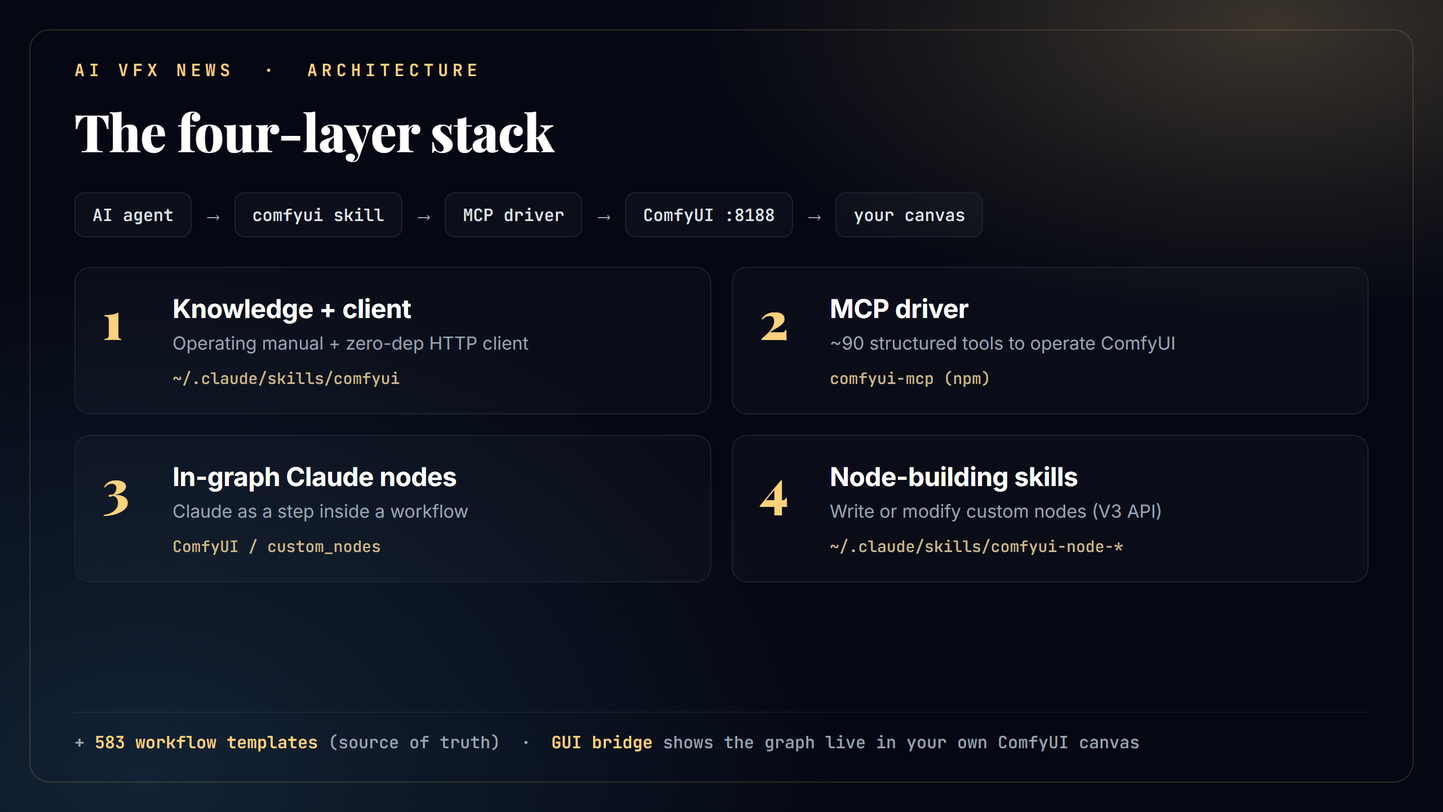
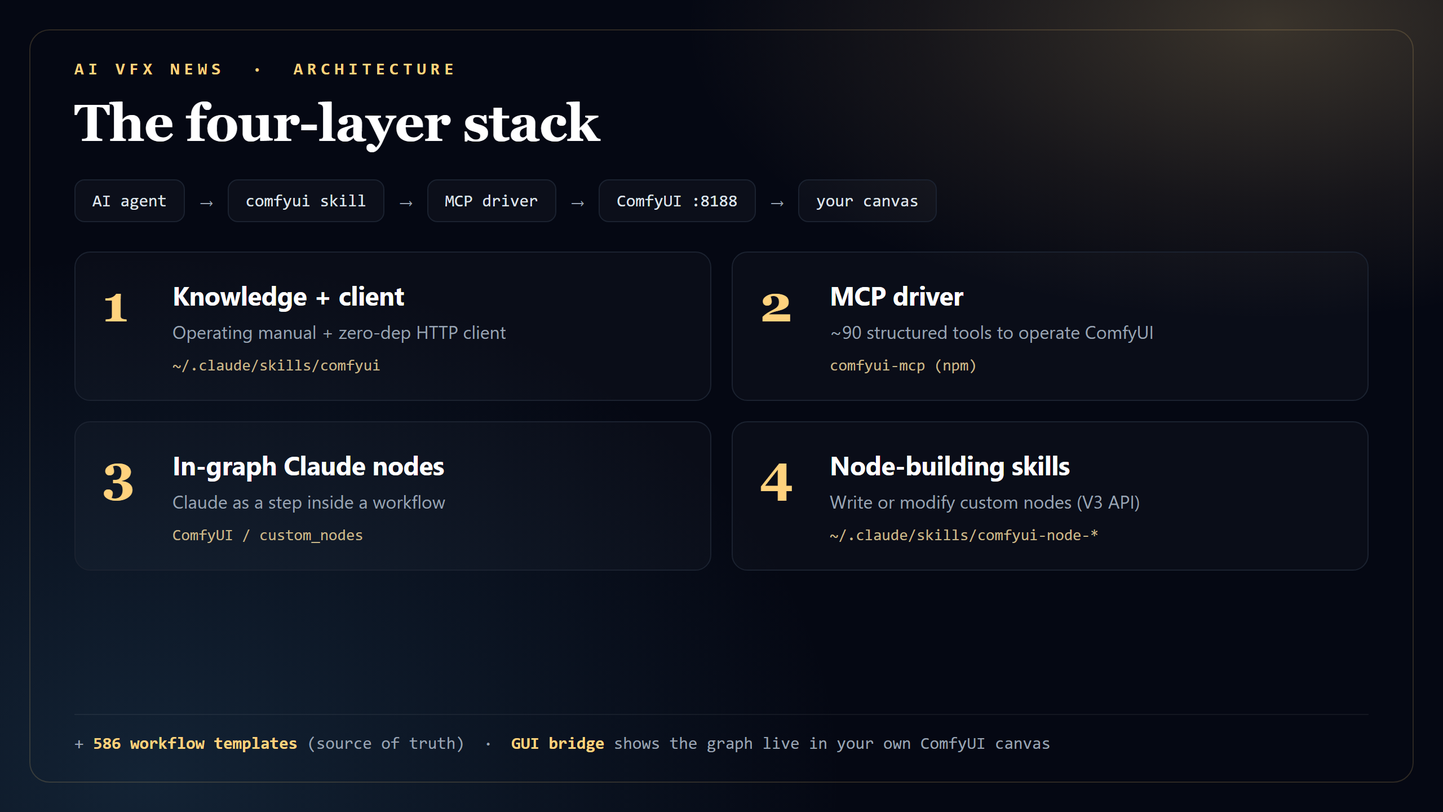
Teach the local MiniMax H3 open weights (the half the kit was missing)
RESPONSIBLE FOR: the kit already documented MiniMax H3 through the hosted
MinimaxHailuo03* API nodes, but the open-weights release is an entirely separate
graph and was absent. Taught from primary sources only, not from the community
writeup that prompted it.

Confirmed from comfy_extras/nodes_minimax_h3.py and the three shipped templates:
MiniMaxH3ImageToVideo covers T2V, I2V and first/last frame in one node (leave
first_frame unconnected and it IS text-to-video), MiniMaxH3ReferenceToVideo adds
audio_vae and the reference slots. Full wiring recorded: CLIPLoader type
"minimax", video fp16 + audio fp32 VAEs, res_multistep + simple at 25 steps,
dual VAEDecode / VAEDecodeAudio into CreateVideo at 24 fps. Also the frame grid
the node calls "17k+5": length must be congruent to 5 mod 17, trained range
~124-362 frames, which the formula reproduces exactly as 5 to 15 seconds.

Prompt format taken from MiniMax's own writing guides rather than paraphrase:
the three named fields, the fixed instruction line for image modes, speaker IDs,
and dialogue inside <d>[Language] verbatim</d>. That last one explains the
widespread "the speech is gibberish" reports.

Licence flagged hard and quoted from the LICENSE file: rights are limited to an
Applicable Territory that EXCLUDES the EU, the UK, South Korea and the USA, and
section IV.4 extends that to the outputs. Over 20M USD revenue needs written
authorisation; products must display "Powered by MiniMax H3".
[…]

diff --git a/claude-code/skills/comfyui/MODELS.md b/claude-code/skills/comfyui/MODELS.md
@@ -805,6 +805,119 @@ Qwen-Image-Edit, OmniGen (above), Seedream Edit, and Nano Banana edit, which are
   - **Cost:** the price badge computes **duration x $0.1859** for t2v and flf2v (so a 5s clip is about $0.93), and the reference node adds per-reference terms on top. Priced from the node's own `PriceBadge` expression, not from a docs page.
 - **Source:** minimax.io/platform/document/video_generation ; node template `minimax.md` ; `comfy_api_nodes/nodes_minimax.py` on master + Comfy-Org/ComfyUI PR 15167 (v0.29.2) ; templates `api_minimax_h3_{t2v,flf2v,r2v}.json`.
 
+#### MiniMax H3 LOCAL (open weights) - a second, entirely separate path from the API nodes above
+
+**READ THE LICENCE BEFORE YOU RUN IT. This one has teeth.** The MiniMax H3 Community License Agreement (2026-08-02,
+`MiniMaxAI/MiniMax-H3/LICENSE`) grants rights only inside the "Applicable Territory", defined as worldwide
+**excluding the European Union, the United Kingdom, the Republic of Korea and the United States of America**.
+Section IV.4 is explicit that this covers the outputs too: "You may not use, reproduce, modify, distribute, or
+display the MiniMax H3 Works **or any of their Outputs or results** outside the Applicable Territory." Anyone in
+those four territories has to contact MiniMax for a separate licence rather than just downloading the weights.
+Beyond territory: over **20 million USD** yearly revenue needs prior written authorisation (api@minimax.io), any
+product built on it must display **"Powered by MiniMax H3"**, and redistribution must carry the copyright notice.
+Open weights, NOT open source. Quoted from the licence file itself, not from a summary.
+
+**What is actually open.** Only **H3-Base** ships, and it generates at **768p**. The official system has three
+modules, and two are hosted-only: **H3-Context-IR** (a multi-stage prompt/context refiner that MiniMax calls
+"critical to the quality of the final output") and **H3-Regenerate-2K** (the 2K upscale pass). So the local model
+is the base engine without the official prompt brain and without the 2K stage. In their place: any local LLM to
+expand prompts into the format below, and an ordinary upscaler. Expect the hosted web result to look more
+finished than a local run of the same idea; that is the missing IR, not your settings.
+
+**Build the graph (confirmed from `comfy_extras/nodes_minimax_h3.py` and the shipped templates).** Two core nodes:
+- **`MiniMaxH3ImageToVideo`** covers T2V, I2V, first-frame, last-frame and first-and-last-frame in one node.
+  Inputs `clip` (CLIP), `vae` (VAE), `first_frame` (IMAGE, optional), `last_frame` (IMAGE, optional),
+  `prompt` (STRING), `width` / `height` / `length` (INT). Outputs `positive` (CONDITIONING) + `LATENT`.
+  **Connect no image and it IS text-to-video** - that is exactly how the `video_minimax_h3_t2v` template works.
+- **`MiniMaxH3ReferenceToVideo`** for reference-to-video. Same inputs plus `audio_vae` (VAE),
+  `ref_images.ref_image_0..2` (IMAGE), `ref_videos.ref_video_0` (IMAGE), `ref_video_audios.ref_video_audio_0`
+  (AUDIO), `ref_audios.ref_audio_0` (AUDIO). Same two outputs.
+- Wiring, identical in both templates: `UNETLoader` (the fl2va or ref2va checkpoint) -> `BasicGuider` with the
+  node's `positive`; `CLIPLoader` with type **`minimax`** -> `clip`; two `VAELoader`s -> `vae` and `audio_vae`;
+  `KSamplerSelect` **`res_multistep`** + `BasicScheduler` **`simple`, 25 steps** -> `SamplerCustomAdvanced` ->
+  **`VAEDecode`** (video, through the video VAE) and **`VAEDecodeAudio`** (through the audio VAE) ->
+  `CreateVideo` at **24 fps** -> `SaveVideo`.
+- **The frame grid, straight from the node schema.** `length` is `default 124, min 5, max 3600, step 17`, and the
+  tooltip names the rule: frame count at 24 fps **snapped up to the model's "17k+5 grid"**, i.e. it must leave
+  **remainder 5 when divided by 17** (124 = ~5 s, 73 = ~3 s). The templates compute it with
+  `max(5, round(seconds * 24)) + (5 - (max(5, round(seconds * 24)) % 17)) % 17`; keep that `ComfyMathExpression`
+  rather than typing a length by hand. **The trained range is ~124 to 362 frames** (roughly 5 to 15 s) per the
+  same tooltip; the widget accepts up to 3600 but the model was not trained there, which is the honest ceiling
+  behind the "people ran 25 s clips" reports.
+- Template defaults: **1344 x 768**, 16:9, which matches the model's ~1 megapixel training target. Push past it
+  and time and VRAM climb while detail does not; the official route to 2K is the Regenerate pass that is not open.
+
+**Files (exact names and sizes, read from the `Comfy-Org/MiniMax-H3` repo tree).** Two task families, four
+precisions each, all under `diffusion_models/`:
+`minimax_h3_{fl2va,ref2va}_bf16.safetensors` **66.3 GB** · `..._int8_convrot.safetensors` **34.0 GB** ·
+`..._pruned_int8_convrot.safetensors` **21.0 GB** · `..._pruned_fp8_scaled.safetensors` **21.0 GB**.
+Use **fl2va** for T2V / I2V / first-last-frame and **ref2va** for reference-to-video. Plus
+`text_encoders/qwen3vl_32b_minimax_h3_nvfp4_awq.safetensors`, `vae/minimax_h3_video_vae_fp16.safetensors` and
+`vae/minimax_h3_audio_vae_fp32.safetensors`. Note the **pruned fp8 variant**, same 21 GB as the pruned int8 and
+worth trying if int8 misbehaves on your card. These are Comfy-Org's own conversions; the community has since
+added GGUF / INT4 / NVFP4 builds under other authors (Abiray, Merserk, DeepBeepMeep, Gluttony10 and more).
+
+**Prompt format: H3-Base eats the IR output, so write in that shape.** From the official
+`VIDEO_PROMPT_WRITING_GUIDE_base_en.md`, the prompt is an optional instruction line, a blank line, then **three
+named fields**:
+```
+integrated_multimodal_description: [Shot 1] ... [Shot 2] At 00:04.500, ...
+overall_soundscape: ...
+non_diegetic_music: ...
+```
+`integrated_multimodal_description` carries visuals, action, shots, speakers, dialogue and diegetic sound along
+the timeline; `overall_soundscape` sums up ambience and physical-action sound; `non_diegetic_music` is score the
+characters cannot hear. For I2V the first line is fixed: `For the target video, at 0.00 seconds into the target
+video, <Picture 1> (from [Shot 1]) is fully referenced.` First-and-last-frame uses the alignment sentence naming
+both pictures and the second mark each lands on, to two decimals.
+- **Dialogue has a syntax, and this is why "the speech is gibberish" reports happen.** Speakers get stable IDs
+  `(S1)`, `(S2)`, joint `(S1,S2)`. The spoken words go **inside `<d>` tags with a language tag**, everything about
+  who says it and how stays outside, and the text is copied verbatim:
+  `The young woman with a quiet, breathy voice (S1) says: <d>[English] I get off at the next station.</d>`
+  Voiceover needs the exact phrase `says in an off-screen voiceover` plus a statement that the lips stay closed.
+  Use `<scenetrans>` when a line crosses a cut and `<cutoff>` when speech is truncated by the end.
+- **On-screen text** goes in double quotes, verbatim, untranslated.
+- **Camera** is motion type plus amplitude plus speed, from a fixed vocabulary: `Zoom In/Out`, `Push In/Pull Out`,
+  `Pan Left/Right`, `Truck Left/Right`, `Tilt Up/Down`, `Pedestal Up/Down`, `Arc Shot`, `Tracking Shot`. Medium
+  amplitude and normal speed are the defaults and are simply left out.
+- **Reference labels (R2V)**, from `VIDEO_PROMPT_WRITING_GUIDE_ref_en.md`: `<Subject N>` is the key one because it
+  binds sources together, e.g. "`<Subject 1>` is the woman whose appearance comes from `<Picture 1>` and whose
+  walking motion comes from `<Video 1>`." `<Picture N>` is a frame or composition anchor, `<Video N>` an editing
+  or temporal source, `<Audio N>` a copied signal. The guide's full structure is `subject_definitions`, `summary`,
+  `retention_analysis` (what is preserved, transferred or reused) and `detailed_description`.
+
+**Reference limits and the sizing switch.** The node's slots are **Autogrow**, so the shipped template showing
+three image sockets is just what that graph instantiated, not the ceiling. From the node schema: `ref_images`
+**max 9**, `ref_videos` **max 3**, `ref_video_audios` **max 3**, `ref_audios` **max 3** - the same envelope as the
+official card, which adds that clips run 2 to 15 s each with 15 s total, at most **12 files** across all types,
+and that **audio can never be the only reference** (it must accompany an image or video). `ref_video_audio_N` is
+specifically the soundtrack of the same-numbered reference video; `ref_audio_N` is standalone audio.
+- **`ref_image_size` is the setting that will surprise you on cost.** `match` (default) scales each reference
+  down to the generation's pixel area; `max` uses the reference pipeline's 2048 px short edge for the best
+  identity fidelity. The node's own tooltip warns why that is not free: **reference tokens ride through every
+  sampling step, so `max` can be several times slower**. Reach for `max` when a face has to hold, stay on
+  `match` otherwise. References are only ever downscaled, never upscaled.
+
+**Speed and hardware (field reports, not measured here).** Generation is slow, and the reason is in the official
+card: H3 supports sparse attention natively but **the open release ships inference with full attention only**,
+with a sparse implementation promised later. Community VRAM ladder as reported by users: 8 GB is a stunt, 12 GB
+does 480p short T2V with aggressive offload, 16 GB is a working minimum for 480p 5 to 10 s, **24 GB (3090/4090)
+is the realistic home tier for T2V / I2V and short R2V**, 32 GB works comfortably near the native megapixel, and
+48 GB is where heavy reference-to-video with long video references stops thrashing. On Windows, ComfyUI has been
+reported to use only part of the card (15 to 17 GB of a 24 GB board) while pushing the rest into system RAM, with
+Linux behaving better. Treat the whole ladder as community reports; the numbers were not verified here.
+- **Duration:** the node itself states the trained range as ~124 to 362 frames, about 5 to 15 s. Nothing blocks a
+  longer `length` and people have posted 25 s clips, but that is past training; expect drift and cost, and treat
+  15 s as where the evidence stops.
+- **Content behaviour:** the safety guardrails described on the model card are part of the **hosted** pipeline
+  (automated moderation of submitted material and enhanced prompts). The open weights carry no such filter, and
+  anatomical fidelity holds up in the image and reference paths. The licence's acceptable-use terms still apply
+  to whatever you generate; MiniMax claims no rights over outputs but places responsibility on you.
+
+- **Source (local path):** `MiniMaxAI/MiniMax-H3` model card, its `LICENSE`, and `docs/VIDEO_PROMPT_WRITING_GUIDE_{base,ref}_en.md` ;
+  `Comfy-Org/MiniMax-H3` repo tree for file names and sizes ; `comfy_extras/nodes_minimax_h3.py` ; templates
+  `video_minimax_h3_{t2v,i2v,r2v}.json`.
+
 ### PixVerse
 - **Prompt style:** `[Character] [Action] [Scene] with [Visual Style], [Cinematography], and [Mood]`; state camera work explicitly and chain it.
 - **Structure:** character/object -> scene -> cinematography (position, movement, angle) -> style/grade -> mood -> negative prompt.

diff --git a/shared/comfyui/MODELS.md b/shared/comfyui/MODELS.md
@@ -805,6 +805,119 @@ Qwen-Image-Edit, OmniGen (above), Seedream Edit, and Nano Banana edit, which are
   - **Cost:** the price badge computes **duration x $0.1859** for t2v and flf2v (so a 5s clip is about $0.93), and the reference node adds per-reference terms on top. Priced from the node's own `PriceBadge` expression, not from a docs page.
 - **Source:** minimax.io/platform/document/video_generation ; node template `minimax.md` ; `comfy_api_nodes/nodes_minimax.py` on master + Comfy-Org/ComfyUI PR 15167 (v0.29.2) ; templates `api_minimax_h3_{t2v,flf2v,r2v}.json`.
 
+#### MiniMax H3 LOCAL (open weights) - a second, entirely separate path from the API nodes above
+
+**READ THE LICENCE BEFORE YOU RUN IT. This one has teeth.** The MiniMax H3 Community License Agreement (2026-08-02,
+`MiniMaxAI/MiniMax-H3/LICENSE`) grants rights only inside the "Applicable Territory", defined as worldwide
+**excluding the European Union, the United Kingdom, the Republic of Korea and the United States of America**.
+Section IV.4 is explicit that this covers the outputs too: "You may not use, reproduce, modify, distribute, or
+display the MiniMax H3 Works **or any of their Outputs or results** outside the Applicable Territory." Anyone in
+those four territories has to contact MiniMax for a separate licence rather than just downloading the weights.
+Beyond territory: over **20 million USD** yearly revenue needs prior written authorisation (api@minimax.io), any
+product built on it must display **"Powered by MiniMax H3"**, and redistribution must carry the copyright notice.
+Open weights, NOT open source. Quoted from the licence file itself, not from a summary.
+
+**What is actually open.** Only **H3-Base** ships, and it generates at **768p**. The official system has three
+modules, and two are hosted-only: **H3-Context-IR** (a multi-stage prompt/context refiner that MiniMax calls
+"critical to the quality of the final output") and **H3-Regenerate-2K** (the 2K upscale pass). So the local model
+is the base engine without the official prompt brain and without the 2K stage. In their place: any local LLM to
+expand prompts into the format below, and an ordinary upscaler. Expect the hosted web result to look more
+finished than a local run of the same idea; that is the missing IR, not your settings.
+
+**Build the graph (confirmed from `comfy_extras/nodes_minimax_h3.py` and the shipped templates).** Two core nodes:
+- **`MiniMaxH3ImageToVideo`** covers T2V, I2V, first-frame, last-frame and first-and-last-frame in one node.
+  Inputs `clip` (CLIP), `vae` (VAE), `first_frame` (IMAGE, optional), `last_frame` (IMAGE, optional),
+  `prompt` (STRING), `width` / `height` / `length` (INT). Outputs `positive` (CONDITIONING) + `LATENT`.
+  **Connect no image and it IS text-to-video** - that is exactly how the `video_minimax_h3_t2v` template works.
+- **`MiniMaxH3ReferenceToVideo`** for reference-to-video. Same inputs plus `audio_vae` (VAE),
+  `ref_images.ref_image_0..2` (IMAGE), `ref_videos.ref_video_0` (IMAGE), `ref_video_audios.ref_video_audio_0`
+  (AUDIO), `ref_audios.ref_audio_0` (AUDIO). Same two outputs.
+- Wiring, identical in both templates: `UNETLoader` (the fl2va or ref2va checkpoint) -> `BasicGuider` with the
+  node's `positive`; `CLIPLoader` with type **`minimax`** -> `clip`; two `VAELoader`s -> `vae` and `audio_vae`;
+  `KSamplerSelect` **`res_multistep`** + `BasicScheduler` **`simple`, 25 steps** -> `SamplerCustomAdvanced` ->
+  **`VAEDecode`** (video, through the video VAE) and **`VAEDecodeAudio`** (through the audio VAE) ->
+  `CreateVideo` at **24 fps** -> `SaveVideo`.
+- **The frame grid, straight from the node schema.** `length` is `default 124, min 5, max 3600, step 17`, and the
+  tooltip names the rule: frame count at 24 fps **snapped up to the model's "17k+5 grid"**, i.e. it must leave
+  **remainder 5 when divided by 17** (124 = ~5 s, 73 = ~3 s). The templates compute it with
+  `max(5, round(seconds * 24)) + (5 - (max(5, round(seconds * 24)) % 17)) % 17`; keep that `ComfyMathExpression`
+  rather than typing a length by hand. **The trained range is ~124 to 362 frames** (roughly 5 to 15 s) per the
+  same tooltip; the widget accepts up to 3600 but the model was not trained there, which is the honest ceiling
+  behind the "people ran 25 s clips" reports.
+- Template defaults: **1344 x 768**, 16:9, which matches the model's ~1 megapixel training target. Push past it
+  and time and VRAM climb while detail does not; the official route to 2K is the Regenerate pass that is not open.
+
+**Files (exact names and sizes, read from the `Comfy-Org/MiniMax-H3` repo tree).** Two task families, four
+precisions each, all under `diffusion_models/`:
+`minimax_h3_{fl2va,ref2va}_bf16.safetensors` **66.3 GB** · `..._int8_convrot.safetensors` **34.0 GB** ·
+`..._pruned_int8_convrot.safetensors` **21.0 GB** · `..._pruned_fp8_scaled.safetensors` **21.0 GB**.
+Use **fl2va** for T2V / I2V / first-last-frame and **ref2va** for reference-to-video. Plus
+`text_encoders/qwen3vl_32b_minimax_h3_nvfp4_awq.safetensors`, `vae/minimax_h3_video_vae_fp16.safetensors` and
+`vae/minimax_h3_audio_vae_fp32.safetensors`. Note the **pruned fp8 variant**, same 21 GB as the pruned int8 and
+worth trying if int8 misbehaves on your card. These are Comfy-Org's own conversions; the community has since
+added GGUF / INT4 / NVFP4 builds under other authors (Abiray, Merserk, DeepBeepMeep, Gluttony10 and more).
+
+**Prompt format: H3-Base eats the IR output, so write in that shape.** From the official
+`VIDEO_PROMPT_WRITING_GUIDE_base_en.md`, the prompt is an optional instruction line, a blank line, then **three
+named fields**:
+```
+integrated_multimodal_description: [Shot 1] ... [Shot 2] At 00:04.500, ...
+overall_soundscape: ...
+non_diegetic_music: ...
+```
+`integrated_multimodal_description` carries visuals, action, shots, speakers, dialogue and diegetic sound along
+the timeline; `overall_soundscape` sums up ambience and physical-action sound; `non_diegetic_music` is score the
+characters cannot hear. For I2V the first line is fixed: `For the target video, at 0.00 seconds into the target
+video, <Picture 1> (from [Shot 1]) is fully referenced.` First-and-last-frame uses the alignment sentence naming
+both pictures and the second mark each lands on, to two decimals.
+- **Dialogue has a syntax, and this is why "the speech is gibberish" reports happen.** Speakers get stable IDs
+  `(S1)`, `(S2)`, joint `(S1,S2)`. The spoken words go **inside `<d>` tags with a language tag**, everything about
+  who says it and how stays outside, and the text is copied verbatim:
+  `The young woman with a quiet, breathy voice (S1) says: <d>[English] I get off at the next station.</d>`
+  Voiceover needs the exact phrase `says in an off-screen voiceover` plus a statement that the lips stay closed.
+  Use `<scenetrans>` when a line crosses a cut and `<cutoff>` when speech is truncated by the end.
+- **On-screen text** goes in double quotes, verbatim, untranslated.
+- **Camera** is motion type plus amplitude plus speed, from a fixed vocabulary: `Zoom In/Out`, `Push In/Pull Out`,
+  `Pan Left/Right`, `Truck Left/Right`, `Tilt Up/Down`, `Pedestal Up/Down`, `Arc Shot`, `Tracking Shot`. Medium
+  amplitude and normal speed are the defaults and are simply left out.
+- **Reference labels (R2V)**, from `VIDEO_PROMPT_WRITING_GUIDE_ref_en.md`: `<Subject N>` is the key one because it
+  binds sources together, e.g. "`<Subject 1>` is the woman whose appearance comes from `<Picture 1>` and whose
+  walking motion comes from `<Video 1>`." `<Picture N>` is a frame or composition anchor, `<Video N>` an editing
+  or temporal source, `<Audio N>` a copied signal. The guide's full structure is `subject_definitions`, `summary`,
+  `retention_analysis` (what is preserved, transferred or reused) and `detailed_description`.
+
+**Reference limits and the sizing switch.** The node's slots are **Autogrow**, so the shipped template showing
+three image sockets is just what that graph instantiated, not the ceiling. From the node schema: `ref_images`
+**max 9**, `ref_videos` **max 3**, `ref_video_audios` **max 3**, `ref_audios` **max 3** - the same envelope as the
+official card, which adds that clips run 2 to 15 s each with 15 s total, at most **12 files** across all types,
+and that **audio can never be the only reference** (it must accompany an image or video). `ref_video_audio_N` is
+specifically the soundtrack of the same-numbered reference video; `ref_audio_N` is standalone audio.
+- **`ref_image_size` is the setting that will surprise you on cost.** `match` (default) scales each reference
+  down to the generation's pixel area; `max` uses the reference pipeline's 2048 px short edge for the best
+  identity fidelity. The node's own tooltip warns why that is not free: **reference tokens ride through every
+  sampling step, so `max` can be several times slower**. Reach for `max` when a face has to hold, stay on
+  `match` otherwise. References are only ever downscaled, never upscaled.
+
+**Speed and hardware (field reports, not measured here).** Generation is slow, and the reason is in the official
+card: H3 supports sparse attention natively but **the open release ships inference with full attention only**,
+with a sparse implementation promised later. Community VRAM ladder as reported by users: 8 GB is a stunt, 12 GB
+does 480p short T2V with aggressive offload, 16 GB is a working minimum for 480p 5 to 10 s, **24 GB (3090/4090)
+is the realistic home tier for T2V / I2V and short R2V**, 32 GB works comfortably near the native megapixel, and
+48 GB is where heavy reference-to-video with long video references stops thrashing. On Windows, ComfyUI has been
+reported to use only part of the card (15 to 17 GB of a 24 GB board) while pushing the rest into system RAM, with
+Linux behaving better. Treat the whole ladder as community reports; the numbers were not verified here.
+- **Duration:** the node itself states the trained range as ~124 to 362 frames, about 5 to 15 s. Nothing blocks a
+  longer `length` and people have posted 25 s clips, but that is past training; expect drift and cost, and treat
+  15 s as where the evidence stops.
+- **Content behaviour:** the safety guardrails described on the model card are part of the **hosted** pipeline
+  (automated moderation of submitted material and enhanced prompts). The open weights carry no such filter, and
+  anatomical fidelity holds up in the image and reference paths. The licence's acceptable-use terms still apply
+  to whatever you generate; MiniMax claims no rights over outputs but places responsibility on you.
+
+- **Source (local path):** `MiniMaxAI/MiniMax-H3` model card, its `LICENSE`, and `docs/VIDEO_PROMPT_WRITING_GUIDE_{base,ref}_en.md` ;
+  `Comfy-Org/MiniMax-H3` repo tree for file names and sizes ; `comfy_extras/nodes_minimax_h3.py` ; templates
+  `video_minimax_h3_{t2v,i2v,r2v}.json`.
+
 ### PixVerse
 - **Prompt style:** `[Character] [Action] [Scene] with [Visual Style], [Cinematography], and [Mood]`; state camera work explicitly and chain it.
 - **Structure:** character/object -> scene -> cinematography (position, movement, angle) -> style/grade -> mood -> negative prompt.

diff --git a/CHANGELOG.md b/CHANGELOG.md
@@ -14,6 +14,44 @@ vx.y.z`), which can become a GitHub Release.
 
 ## [Unreleased]
 
+### Added
+- **MiniMax H3 local open weights, the half the kit was missing.** The MiniMax entry already covered the hosted
+  `MinimaxHailuo03*` API nodes; the open-weights release is a completely separate graph and it now has its own
+  block. Buildable from the two core nodes confirmed in `comfy_extras/nodes_minimax_h3.py`:
+  **`MiniMaxH3ImageToVideo`** (one node covering T2V, I2V and first/last frame, with `first_frame` / `last_frame`
+  simply left unconnected for text-to-video) and **`MiniMaxH3ReferenceToVideo`** (adds `audio_vae` plus the
+  `ref_images` / `ref_videos` / `ref_video_audios` / `ref_audios` slots), each returning `positive` CONDITIONING
+  and `LATENT`. Full wiring documented: `CLIPLoader` type **`minimax`**, two VAEs (video fp16 + audio fp32),
+  `res_multistep` + `simple` at 25 steps, dual `VAEDecode` / `VAEDecodeAudio` into `CreateVideo` at 24 fps.
+  Includes the **frame-count rule the templates encode and nobody writes down: the length must leave remainder 5
+  modulo 17** (124 frames for 5 s, 73 for 3 s), so a hand-set length can land off-grid.
+- **The official prompt format for H3, which is not the usual prose.** From MiniMax's own
+  `VIDEO_PROMPT_WRITING_GUIDE_{base,ref}_en.md`: three named fields (`integrated_multimodal_description`,
+  `overall_soundscape`, `non_diegetic_music`), the fixed instruction line for image modes, speaker IDs `(S1)`,
+  and dialogue wrapped in `<d>[Language] verbatim words</d>` with delivery outside the tag. That last detail
+  explains the widely reported "the speech comes out as gibberish": without `<d>` the model is never told the
+  exact words. Also `<scenetrans>` / `<cutoff>` for lines crossing a cut, quoted on-screen text, the fixed camera
+  vocabulary, and the `<Subject N>` / `<Picture N>` / `<Video N>` / `<Audio N>` reference labels for R2V.
+- **What is open and what is not:** only **H3-Base** ships and it generates at **768p**. The `H3-Context-IR`
+  prompt/context refiner (which MiniMax calls critical to output quality) and the `H3-Regenerate-2K` upscale pass
+  are hosted-only, so a local run is the base engine without the official prompt brain. Documented alongside the
+  exact file names and sizes read from the `Comfy-Org/MiniMax-H3` tree (bf16 66.3 GB, int8-convrot 34.0 GB,
+  pruned int8-convrot and pruned **fp8-scaled** 21.0 GB each, per task family), the community VRAM ladder marked
+  as unverified field reports, and the reason it is slow (the open release ships **full attention only**; sparse
+  attention is promised later).
+- **A hard licence flag, quoted from the licence file.** The MiniMax H3 Community License Agreement (2026-08-02)
+  limits all rights to an "Applicable Territory" that **excludes the European Union, the United Kingdom, the
+  Republic of Korea and the United States of America**, and section IV.4 extends that to the **outputs** as well.
+  Over 20 million USD yearly revenue needs prior written authorisation, products must display "Powered by
+  MiniMax H3", and redistribution must carry the copyright notice. Open weights, not open source.
+
+### Changed
+- **Template count 583 -> 586** (the three local `video_minimax_h3_{t2v,i2v,r2v}` templates, which landed
+  2026-08-02, after the last weekly cut). Synced across README, MODEL_INDEX, SKILL.md and all four re-rendered
+  banners; category counts recomputed from the manifest (Image 157, Video 152). The MODEL_INDEX MiniMax row now
+  reads **API + local open weights** instead of API only. Recipe and model counts are unchanged: this extends the
+  existing MiniMax family entry rather than adding a new one.
+
 ## [2.7.0] - 2026-08-02
 
 ### Added

diff --git a/README.md b/README.md
@@ -53,7 +53,7 @@ guide to building your own custom nodes.
   fits (fp8 / offload / multi-GPU / quant) and refuses a download that won't fit, before wasting the bandwidth.
 - **18 enhancement and utility tools:** upscale / restore (Real-ESRGAN, SUPIR, SeedVR2), frame interpolation
   (FILM, RIFE), segmentation / depth / pose (SAM3, BiRefNet, Depth Anything), plus restoration chains.
-- **583-template library** (and **94 official Subgraph Blueprints**, reusable subgraph bricks) as the source of truth, plus **fetch any shared workflow by hash** and a **model
+- **586-template library** (and **94 official Subgraph Blueprints**, reusable subgraph bricks) as the source of truth, plus **fetch any shared workflow by hash** and a **model
   shootout** (run a prompt through many models small, pick the winner, then scale up).
 - **Assembles new workflows from parts:** decomposes a task into stages, mixes templates and blueprint subgraphs,
   and wires the nodes correctly (output-to-input by type, with converters where needed), validated against
@@ -106,12 +106,12 @@ See [docs/LAYERS.md](docs/LAYERS.md) for each layer, and [docs/AGENTS.md](docs/A
 ## The template library is the source of truth
 
 The kit clones the official [Comfy-Org/workflow_templates](https://github.com/Comfy-Org/workflow_templates) and
-builds a compact lookup index so the agent can match any request to the right template. 583 templates (plus **94 official Subgraph Blueprints**, reusable subgraph bricks) span every
+builds a compact lookup index so the agent can match any request to the right template. 586 templates (plus **94 official Subgraph Blueprints**, reusable subgraph bricks) span every
 task, image, video, 3D, audio, utilities:
 
 <div align="center">
 
-<img src="docs/assets/templates_by_category.png" width="880" alt="Workflow templates by category: 157 image, 149 video, 103 use cases, 69 utility, 33 3D, 30 audio, 18 getting started, 17 LLM, 7 node basics">
+<img src="docs/assets/templates_by_category.png" width="880" alt="Workflow templates by category: 157 image, 152 video, 103 use cases, 69 utility, 33 3D, 30 audio, 18 getting started, 17 LLM, 7 node basics">
 
 </div>
 

diff --git a/claude-code/skills/comfyui/MODEL_INDEX.md b/claude-code/skills/comfyui/MODEL_INDEX.md
@@ -1,6 +1,6 @@
 # Model index: every model in the library and what the kit has for it
 
-The template library names **157 distinct models** across 583 templates (plus 94 official Subgraph Blueprints, reusable subgraph bricks). This index shows, for each, what the kit
+The template library names **157 distinct models** across 586 templates (plus 94 official Subgraph Blueprints, reusable subgraph bricks). This index shows, for each, what the kit
 provides: a full prompt recipe in [`MODELS.md`](../shared/comfyui/MODELS.md), an enhancement/utility note, or
 template-only coverage (runnable via a template, no dedicated recipe yet).
 
@@ -13,7 +13,7 @@ template-only coverage (runnable via a template, no dedicated recipe yet).
 **Totals:** ✅ 75 recipe families (covering ~128 model-name variants) · 🔧 18 utility tools · 📋 a few obscure
 template-only · plus text encoders / inference providers that are not generative models.
 
-**Updated: 2026-08-01.** Every ✅ entry has a current prompting recipe in
+**Updated: 2026-08-03.** Every ✅ entry has a current prompting recipe in
 [`MODELS.md`](../shared/comfyui/MODELS.md); every 🔧 entry has a when-to-use + settings note.
 
 ---
@@ -79,7 +79,7 @@ template-only · plus text encoders / inference providers that are not generativ
 | Seedance | Seedance 1.0 Pro, 1.5 Pro, 2.0 (4K) | API |
 | Luma | Luma Ray, UNI-1 | API |
 | Runway | Runway Gen-4 / 4.5 | API |
-| MiniMax | MiniMax / Hailuo, MiniMax H3 | API |
+| MiniMax | MiniMax / Hailuo (API), MiniMax H3 (API + local open weights) | API / local |
 | PixVerse | PixVerse | API |
 | Vidu | Vidu Q1 / Q2 / Q3 | API |
 | Pika | Pika 2.2 / 2.5 | API |

diff --git a/docs/MODEL_INDEX.md b/docs/MODEL_INDEX.md
@@ -1,6 +1,6 @@
 # Model index: every model in the library and what the kit has for it
 
-The template library names **157 distinct models** across 583 templates (plus 94 official Subgraph Blueprints, reusable subgraph bricks). This index shows, for each, what the kit
+The template library names **157 distinct models** across 586 templates (plus 94 official Subgraph Blueprints, reusable subgraph bricks). This index shows, for each, what the kit
 provides: a full prompt recipe in [`MODELS.md`](../shared/comfyui/MODELS.md), an enhancement/utility note, or
 template-only coverage (runnable via a template, no dedicated recipe yet).
 
@@ -13,7 +13,7 @@ template-only coverage (runnable via a template, no dedicated recipe yet).
 **Totals:** ✅ 75 recipe families (covering ~128 model-name variants) · 🔧 18 utility tools · 📋 a few obscure
 template-only · plus text encoders / inference providers that are not generative models.
 
-**Updated: 2026-08-01.** Every ✅ entry has a current prompting recipe in
+**Updated: 2026-08-03.** Every ✅ entry has a current prompting recipe in
 [`MODELS.md`](../shared/comfyui/MODELS.md); every 🔧 entry has a when-to-use + settings note.
 
 ---
@@ -79,7 +79,7 @@ template-only · plus text encoders / inference providers that are not generativ
 | Seedance | Seedance 1.0 Pro, 1.5 Pro, 2.0 (4K) | API |
 | Luma | Luma Ray, UNI-1 | API |
 | Runway | Runway Gen-4 / 4.5 | API |
-| MiniMax | MiniMax / Hailuo, MiniMax H3 | API |
+| MiniMax | MiniMax / Hailuo (API), MiniMax H3 (API + local open weights) | API / local |
 | PixVerse | PixVerse | API |
 | Vidu | Vidu Q1 / Q2 / Q3 | API |
 | Pika | Pika 2.2 / 2.5 | API |

diff --git a/claude-code/skills/comfyui/SKILL.md b/claude-code/skills/comfyui/SKILL.md
@@ -212,7 +212,7 @@ Ideogram, Nano Banana Pro/2, Seedream 4.x/5 Lite/5 Pro, Recraft, GPT-Image, Grok
 Chroma, Krea (incl. the Turbo image-style-reference LoRA on core nodes), ERNIE-Image, Mage-Flow (Microsoft 4B,
 native-resolution, MIT); (image edit) FLUX Kontext,
 Qwen-Image-Edit, FireRed, LongCat, ChronoEdit, JoyAI Image Edit, Mage-Flow-Edit; (video)
-Wan 2.1-2.7 (incl. Uni3C camera-trajectory ControlNet), LTX-2.3 / 2 Pro, Hunyuan Video, SVD, Kling, Veo, Sora, Seedance, Luma, Runway, MiniMax (incl. H3), PixVerse,
+Wan 2.1-2.7 (incl. Uni3C camera-trajectory ControlNet), LTX-2.3 / 2 Pro, Hunyuan Video, SVD, Kling, Veo, Sora, Seedance, Luma, Runway, MiniMax (incl. H3, API + local open weights), PixVerse,
 Vidu, Pika, Sync 3 (lip sync), HeyGen (avatar video, talking photo, video translate, TTS), HappyHorse, HuMo, SCAIL-2; (audio) Stable Audio, ACE-Step, ElevenLabs, ChatterBox, Seed Audio, Sonilo; (3D)
 Hunyuan3D, Tripo, Rodin, Meshy; (newer/niche) Capybara, Bernini-R, Anima (+ ControlNet-LLLite control and inpainting
 patches), NewBie, PixelDiT, Ovis-Image, Lens, Quiver.

diff --git a/shared/comfyui/SKILL.md b/shared/comfyui/SKILL.md
@@ -212,7 +212,7 @@ Ideogram, Nano Banana Pro/2, Seedream 4.x/5 Lite/5 Pro, Recraft, GPT-Image, Grok
 Chroma, Krea (incl. the Turbo image-style-reference LoRA on core nodes), ERNIE-Image, Mage-Flow (Microsoft 4B,
 native-resolution, MIT); (image edit) FLUX Kontext,
 Qwen-Image-Edit, FireRed, LongCat, ChronoEdit, JoyAI Image Edit, Mage-Flow-Edit; (video)
-Wan 2.1-2.7 (incl. Uni3C camera-trajectory ControlNet), LTX-2.3 / 2 Pro, Hunyuan Video, SVD, Kling, Veo, Sora, Seedance, Luma, Runway, MiniMax (incl. H3), PixVerse,
+Wan 2.1-2.7 (incl. Uni3C camera-trajectory ControlNet), LTX-2.3 / 2 Pro, Hunyuan Video, SVD, Kling, Veo, Sora, Seedance, Luma, Runway, MiniMax (incl. H3, API + local open weights), PixVerse,
 Vidu, Pika, Sync 3 (lip sync), HeyGen (avatar video, talking photo, video translate, TTS), HappyHorse, HuMo, SCAIL-2; (audio) Stable Audio, ACE-Step, ElevenLabs, ChatterBox, Seed Audio, Sonilo; (3D)
 Hunyuan3D, Tripo, Rodin, Meshy; (newer/niche) Capybara, Bernini-R, Anima (+ ControlNet-LLLite control and inpainting
 patches), NewBie, PixelDiT, Ovis-Image, Lens, Quiver.
